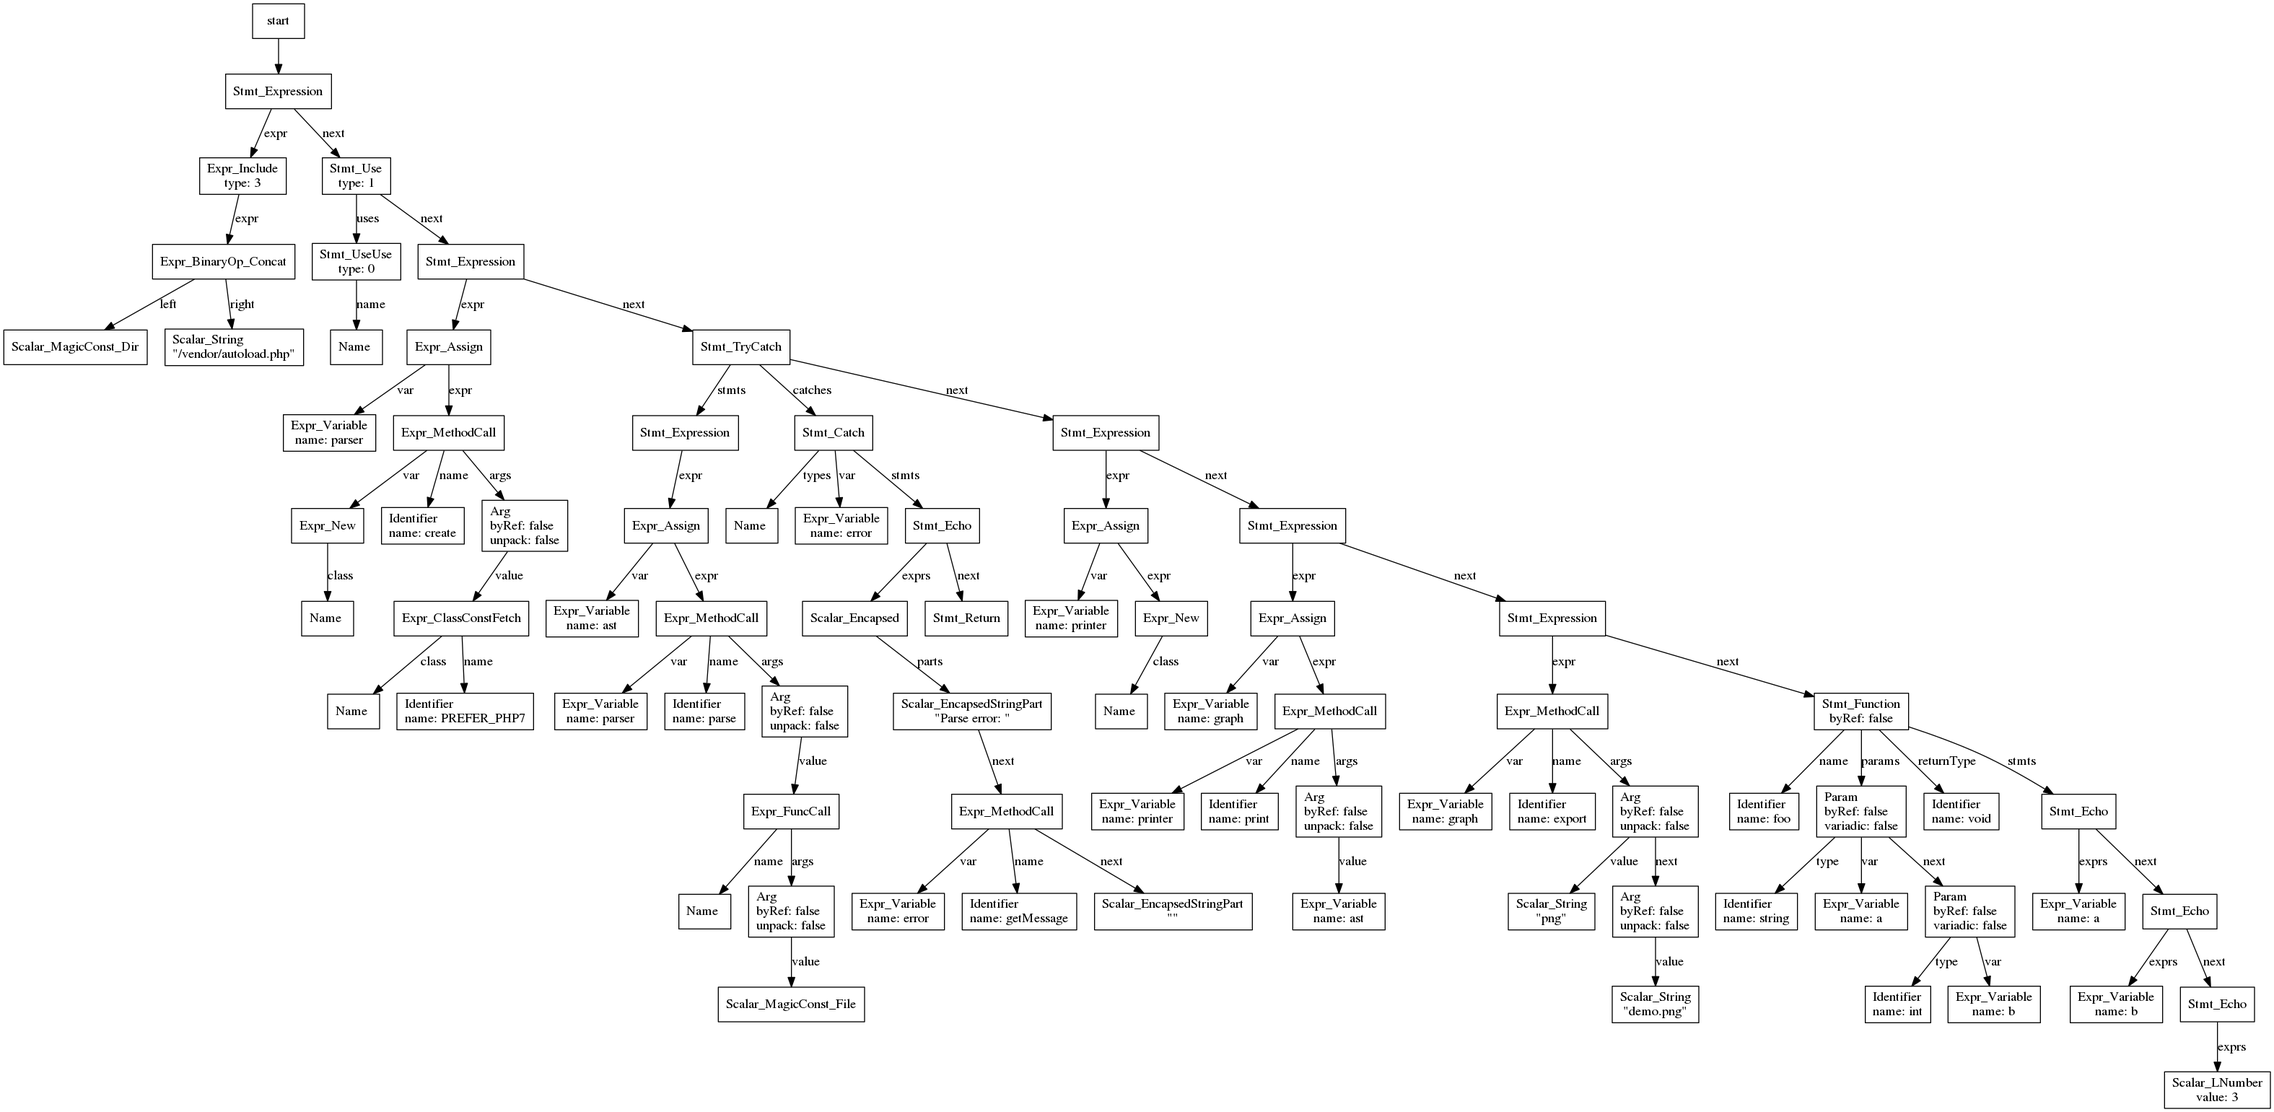
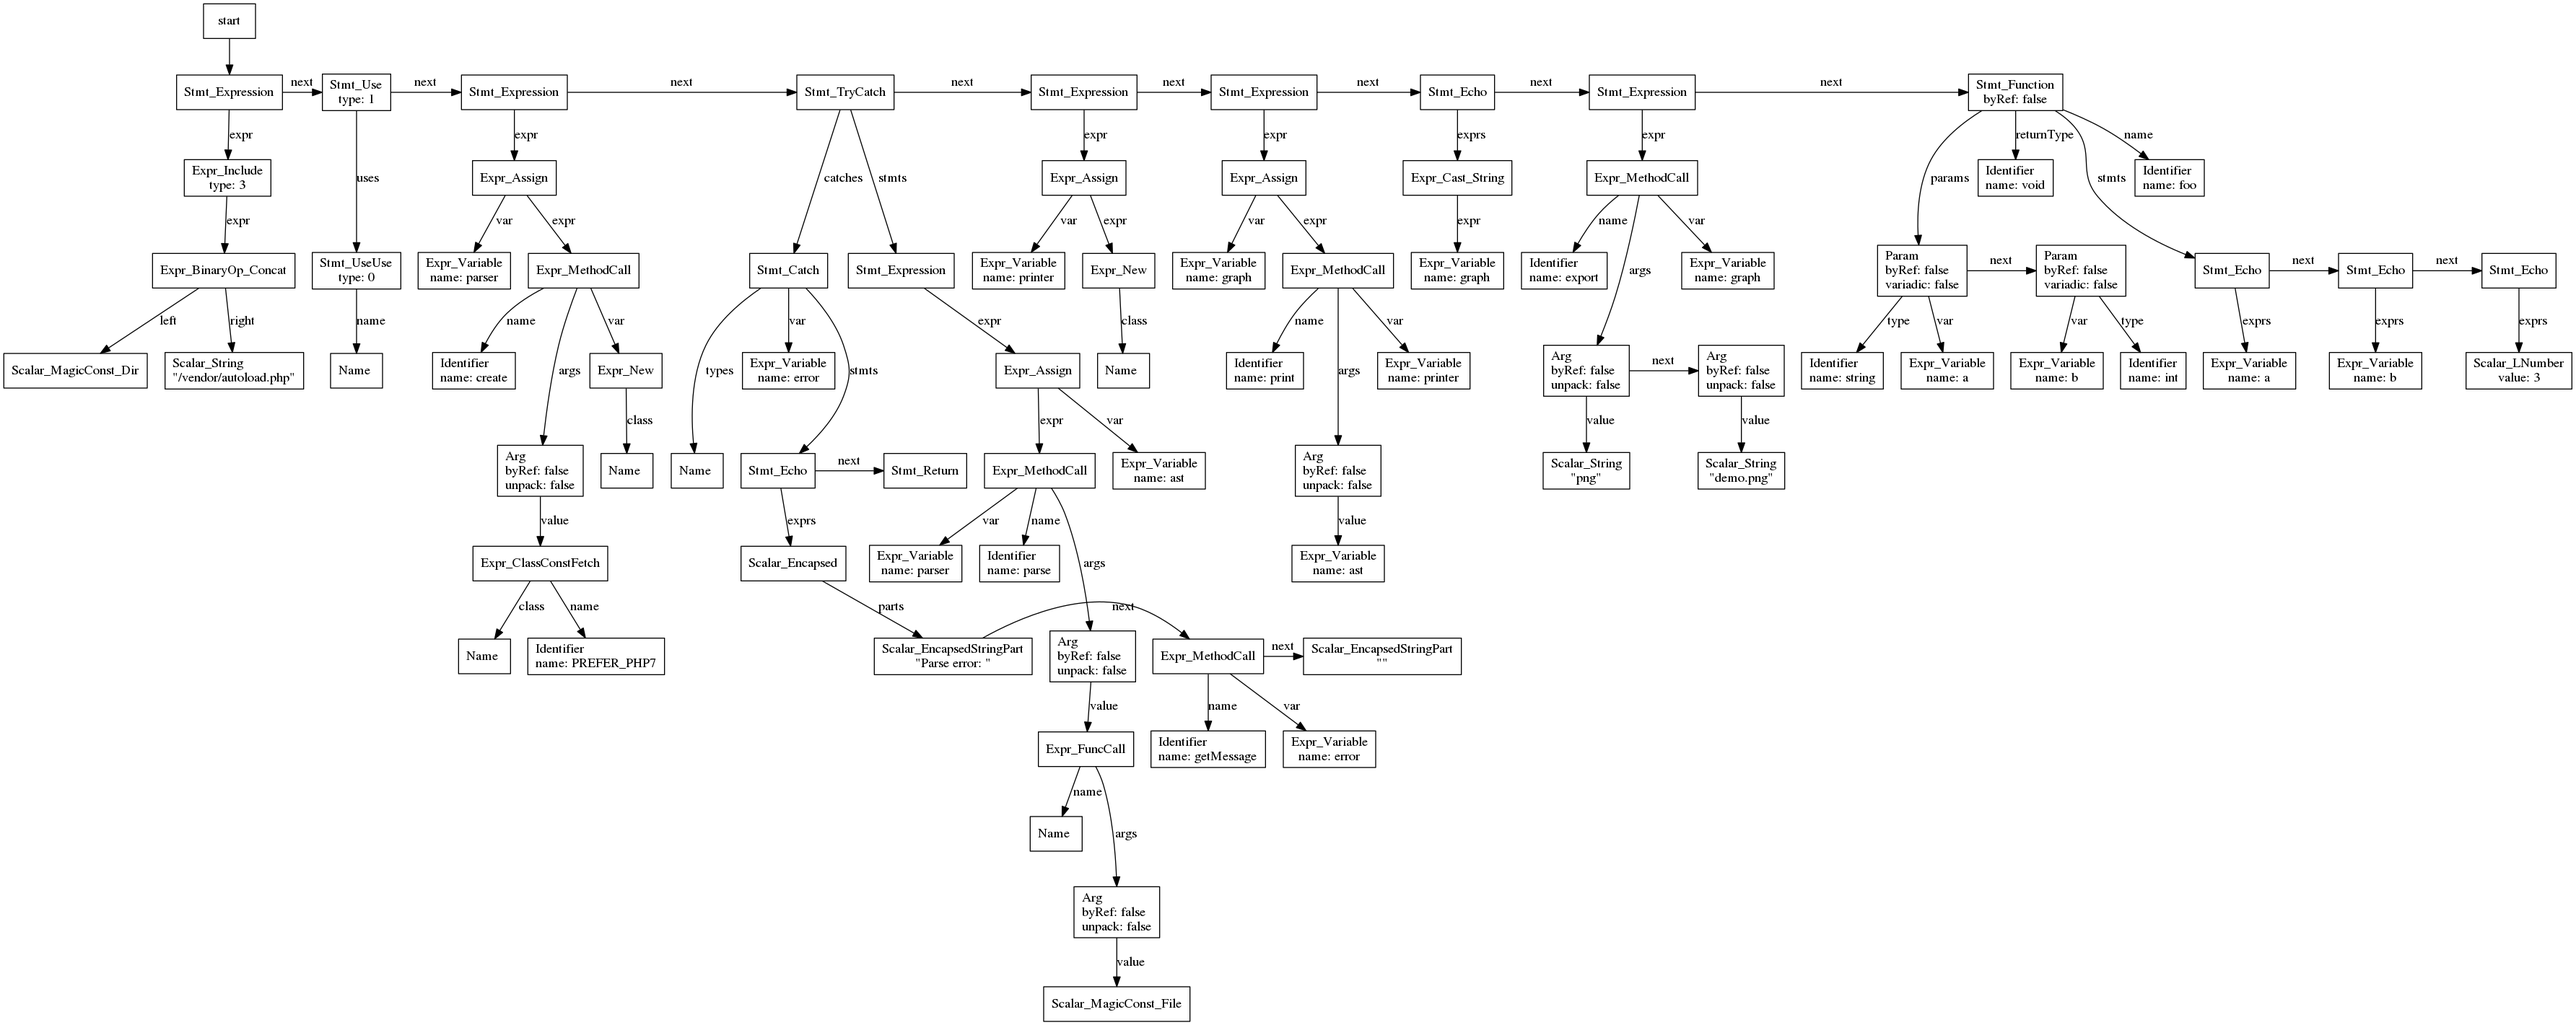
Make children be on the same level

diff --git a/lib/Printer.php b/lib/Printer.php
@@ -4,9 +4,9 @@ namespace PHPAstVisualizer;
 
 use PhpParser\Node;
 
-use phpDocumentor\GraphViz\Graph;
 use phpDocumentor\GraphViz\Edge as GraphEdge;
 use phpDocumentor\GraphViz\Node as GraphNode;
+
 class Printer {
     private $nodeMap;
     private $options;
@@ -33,15 +33,20 @@ class Printer {
         return $graph;
     }
 
-    private function parseArray(GraphNode $parent, array $nodes, string $name) {
+    private function parseArray(GraphNode $parent, array $nodes, string $name, int $minlen = 1) {
+        $sameRank = [];
         foreach ($nodes as $node) {
             if (!$node instanceof Node) {
                 continue;
             }
             $child = $this->parseNode($node);
-            $this->createEdge($parent, $child, $name);
+            $sameRank[] = $child;
+            $this->createEdge($parent, $child, $name, $minlen);
             $parent = $child;
             $name = 'next';
+        }
+        if (count($sameRank) > 1) {
+            $this->graph->addRanking('same', $sameRank);
         }
     }
 
@@ -53,22 +58,24 @@ class Printer {
             );
             $this->options->node($this->nodeMap[$node]);
             $this->graph->setNode($this->nodeMap[$node]);
-            foreach ($node->getSubNodeNames() as $name) {
+            $names = $node->getSubNodeNames();
+            foreach ($names as $name) {
                 $subNode = $node->$name;
                 if (is_object($subNode) && $subNode instanceof Node) {
                     $this->createEdge($this->nodeMap[$node], $this->parseNode($subNode), $name);
                 } elseif (is_array($subNode)) {
-                    $this->parseArray($this->nodeMap[$node], $subNode, $name);
+                    $this->parseArray($this->nodeMap[$node], $subNode, $name, count($names) === 1 ? 1 : 2);
                 }
             }
         }
         return $this->nodeMap[$node];
     }
 
-    private function createEdge(GraphNode $from, GraphNode $to, string $label) {
+    private function createEdge(GraphNode $from, GraphNode $to, string $label, int $minlen = 1) {
         $edge = new GraphEdge($from, $to);
         $this->options->edge($edge);
         $edge->setlabel($label);
+        $edge->setminlen($minlen);
         $this->graph->link($edge);
     }
 

diff --git a/lib/Graph.php b/lib/Graph.php
@@ -1,0 +1,50 @@
+<?php declare(strict_types=1);
+
+namespace PHPAstVisualizer;
+
+use phpDocumentor\GraphViz\Graph as OrigGraph;
+
+class Graph extends OrigGraph {
+
+    protected $rankings = [];
+
+    public static function create($name = 'G', $directional = true)
+    {
+        $graph = new self();
+        $graph
+            ->setName($name)
+            ->setType($directional ? 'digraph' : 'graph');
+        return $graph;
+    }
+
+    public function addRanking(string $type, array $nodes) {
+        $rank = '{ rank=' . $type;
+        foreach ($nodes as $node) {
+            $rank .= ' ' . $node->getName();
+        }
+        $rank .= ' }';
+        $this->rankings[] = $rank;
+    }
+
+    public function __toString(): string
+    {
+        $elements = array_merge(
+            $this->graphs,
+            $this->attributes,
+            $this->edges,
+            $this->nodes,
+            $this->rankings
+        );
+        $attributes = [];
+        foreach ($elements as $value) {
+            $attributes[] = (string) $value;
+        }
+        $attributes = implode(PHP_EOL, $attributes);
+        $strict = ($this->isStrict() ? 'strict ' : '');
+        return <<<DOT
+{$strict}{$this->getType()} "{$this->getName()}" {
+${attributes}
+}
+DOT;
+    }
+}

diff --git a/demo.php b/demo.php
@@ -16,6 +16,7 @@ $printer = new PHPAstVisualizer\Printer;
 
 $graph = $printer->print($ast);
 
+echo (string) $graph;
 $graph->export('png', 'demo.png');
 
 function foo(string $a, int $b): void {
